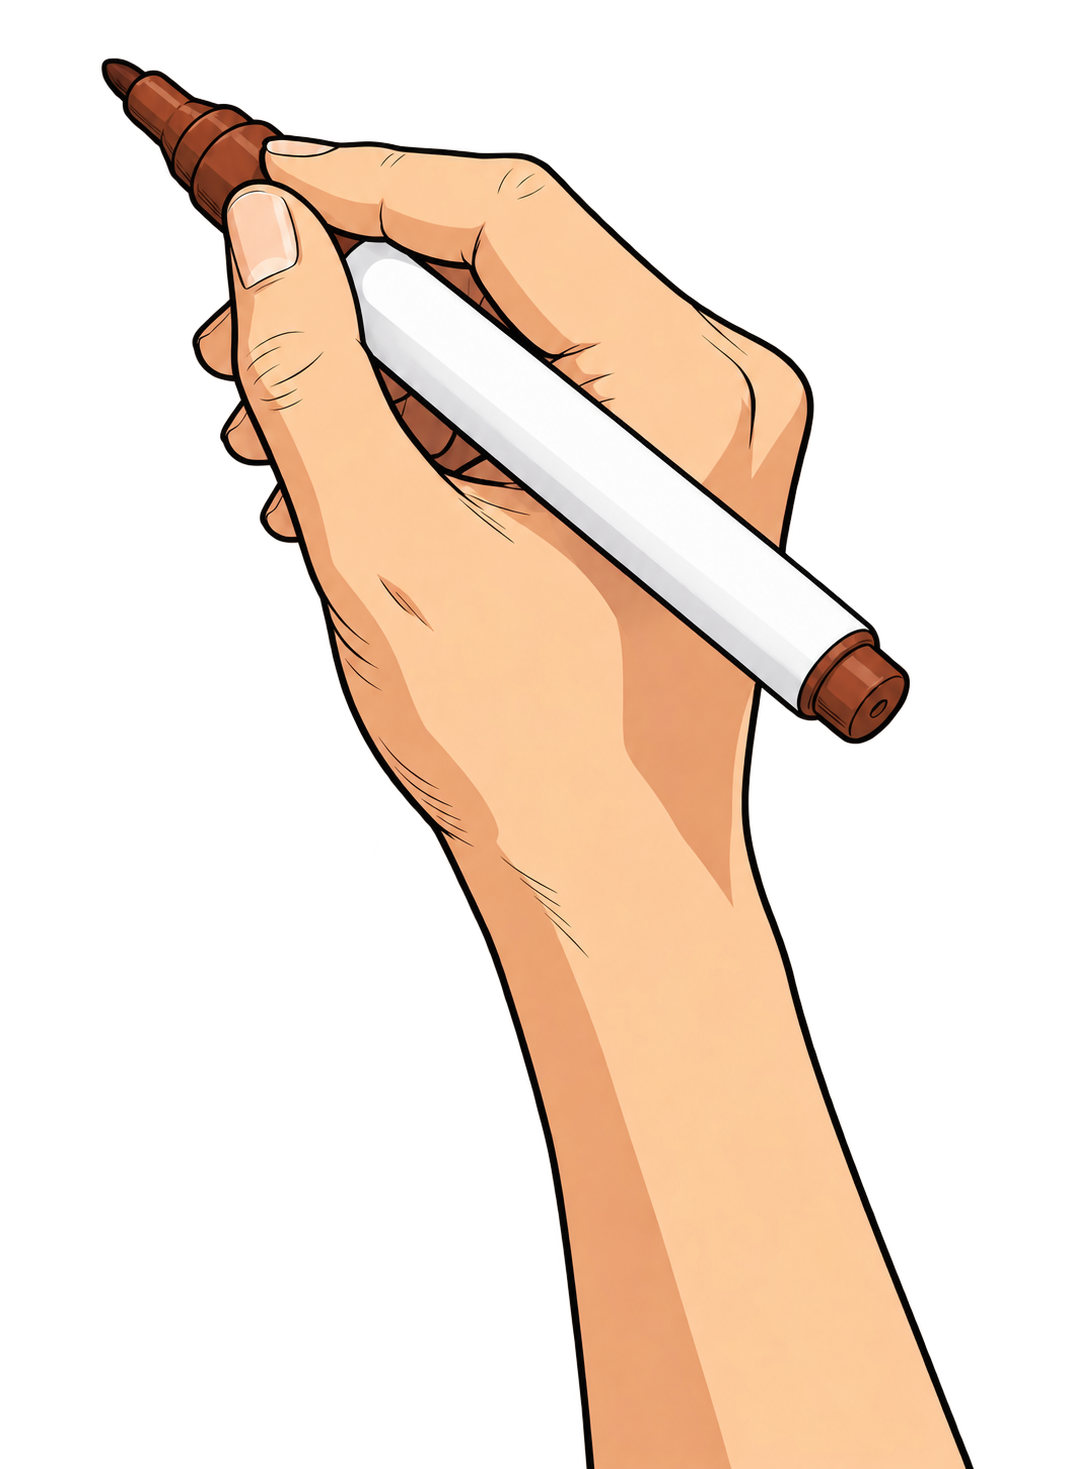
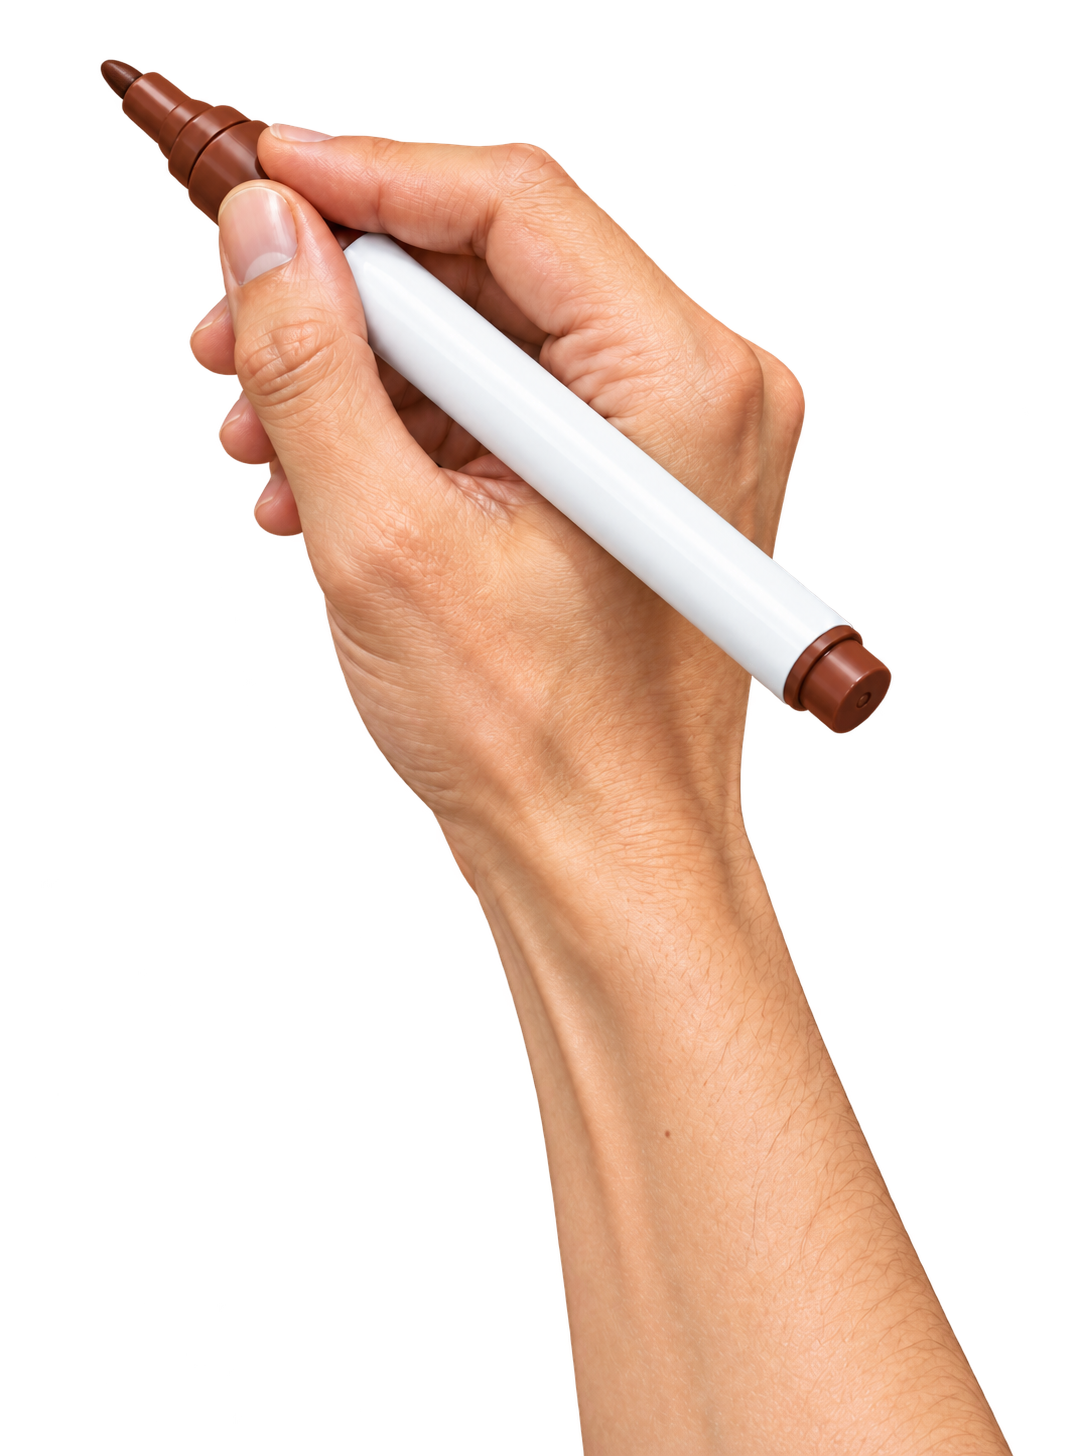
fix(renderer): align default drawing hand and pen contact
Use the same transparent marker hand for default rendering entry points.
Ignore faint cutout residue when cropping while preserving interior alpha.

Changed region(s): [[0.0924, 0.0309, 0.9552, 1.0]]

diff --git a/tests/test_engine_regression.py b/tests/test_engine_regression.py
@@ -10,6 +10,41 @@ import numpy as np
 
 from cs_board_video import media
 from helpers import fixture, prepare_images, prepare_audio, prepare_plans
+from cs_board_video.upstream.scripts.stream_render import _load_hand, TipOverlay
+
+
+class HandAssetTests(unittest.TestCase):
+    def test_faint_cutout_residue_does_not_offset_pen_contact(self):
+        with tempfile.TemporaryDirectory() as base:
+            path = Path(base) / "hand.png"
+            rgba = np.zeros((40, 40, 4), dtype=np.uint8)
+            rgba[10:30, 12:32] = (40, 60, 80, 255)
+            rgba[0, 0] = (40, 60, 80, 1)
+            rgba[39, 39] = (40, 60, 80, 1)
+            cv2.imencode(".png", rgba)[1].tofile(str(path))
+            hand, mask = _load_hand(path, 20)
+            canvas = np.full((60, 60, 3), 255, dtype=np.uint8)
+            TipOverlay(hand, mask).stamp(canvas, 15, 15)
+            self.assertTrue(np.array_equal(canvas[15, 15], [40, 60, 80]))
+            self.assertTrue(np.all(canvas[:15] == 255))
+            self.assertTrue(np.all(canvas[:, :15] == 255))
+            self.assertTrue(np.all(canvas[35:] == 255))
+            self.assertTrue(np.all(canvas[:, 35:] == 255))
+
+    def test_crop_preserves_translucent_pixels_inside_hand(self):
+        with tempfile.TemporaryDirectory() as base:
+            path = Path(base) / "hand.png"
+            rgba = np.zeros((12, 12, 4), dtype=np.uint8)
+            rgba[2:10, 2:10] = (40, 60, 80, 255)
+            rgba[4, 4, 3] = 128
+            rgba[5, 5, 3] = 4
+            cv2.imencode(".png", rgba)[1].tofile(str(path))
+            hand, mask = _load_hand(path, 8)
+            canvas = np.full((8, 8, 3), 255, dtype=np.uint8)
+            TipOverlay(hand, mask).stamp(canvas, 0, 0)
+            for position, alpha in ((2, 128), (3, 4)):
+                expected = np.array([40, 60, 80]) * (alpha / 255) + 255 - alpha
+                np.testing.assert_allclose(canvas[position, position], expected, atol=1)
 
 
 class UpstreamParityTests(unittest.TestCase):

diff --git a/tests/test_migration.py b/tests/test_migration.py
@@ -76,7 +76,8 @@ class MigrationTests(unittest.TestCase):
                         return {(type(n).__name__, n.name) for n in ast.walk(tree)
                                 if isinstance(n, (ast.FunctionDef, ast.AsyncFunctionDef, ast.ClassDef))}
                     self.assertFalse(symbols(original) - symbols(migrated), item["path"])
-        self.assertEqual(modified, {"webapp/server.py", "scripts/render_stream_whiteboard.py",
+        self.assertEqual(modified, {"assets/drawing-hand-clean.png", "assets/drawing-hand.png",
+                                  "scripts/stream_render.py", "webapp/server.py", "scripts/render_stream_whiteboard.py",
                                   "scripts/merge_scenes.py", "video_renderer/align.mjs", "video_renderer/render.mjs"})
         self.assertFalse((REPO / "cs_board_video/engine/stream_render.py").exists())
 

diff --git a/cs_board_video/upstream/scripts/stream_render.py b/cs_board_video/upstream/scripts/stream_render.py
@@ -608,8 +608,8 @@ def _load_hand(path: Path, target_h: int) -> tuple[np.ndarray, np.ndarray] | Non
         gray = cv2.cvtColor(hand, cv2.COLOR_BGR2GRAY)
         _, mask = cv2.threshold(gray, 250, 255, cv2.THRESH_BINARY_INV)
 
-    # 裁到有效区
-    (x0, y0), (x1, y1) = _bounding_box(mask)
+    # 忽略近乎透明的抠图残点，避免有效区左上角偏离笔尖；保留区内原始 alpha。
+    (x0, y0), (x1, y1) = _bounding_box(mask > 8)
     if x1 <= x0 or y1 <= y0:
         return None
     hand = hand[y0:y1 + 1, x0:x1 + 1]

diff --git a/references/styles.md b/references/styles.md
@@ -6,7 +6,7 @@
 旧的 lines/palette/proportions/shading/texture/composition/complexity 详细字段同样可用。
 展示项目内画风预览和配置，经用户确认记录 style 批准。
 
-预设图和原干净绘制手复制到项目。`project.json.config.pen_text` 使用原 make_branded_hand。
+预设图和默认绘制手复制到新项目。默认手为透明背景的白杆棕色笔素材，内置渲染入口使用同一张图；已有项目和自定义预设保存的绘制手保留不变。`project.json.config.pen_text` 使用原 make_branded_hand。
 `canvas_hex` 为白板渲染底色，应与已批准画风一致。
 
 单独风格参考可导入 `style/reference.png`；角色参考放 `characters/references/`。
